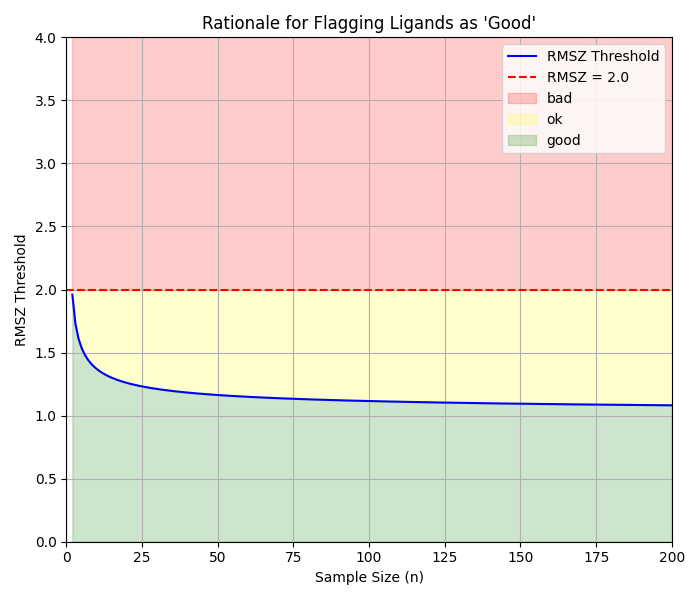
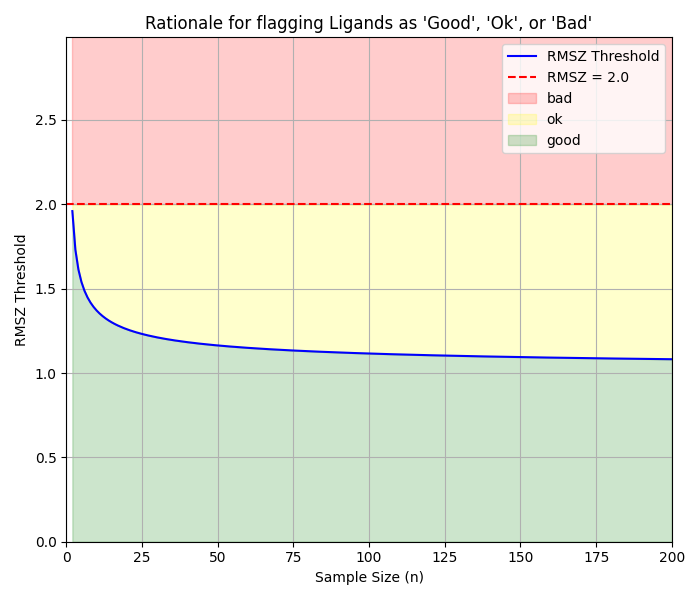
:memo: updated plots for documentation

diff --git a/ligand_inspector/RMSZInterpreter.py b/ligand_inspector/RMSZInterpreter.py
@@ -178,9 +178,9 @@ class RMSZInterpreter:
 
         # fill above
 
-        plt.ylim(0, 4)
+        plt.ylim(0, 2.99)
         plt.xlim(0, 200)
-        plt.title("Rationale for Flagging Ligands as 'Good'")
+        plt.title("Rationale for flagging Ligands as 'Good', 'Ok', or 'Bad'")
         plt.xlabel("Sample Size (n)")
         plt.ylabel("RMSZ Threshold")
         plt.legend()
@@ -203,6 +203,7 @@ class RMSZInterpreter:
         """
 
         fig, axs = plt.subplots(2, 1 , figsize=(7, 6))
+        fig.suptitle("Comparison of two Normal Distributions with RMSZ 1.0 and 2.0")
         mean = 0
         reference_std_dev = 1.0
         dataset_std_dev = 2.0

diff --git a/README.md b/README.md
@@ -107,8 +107,8 @@ Using a bisectional search, the treshold-RMSZ value is determined, below which n
 The size of the true population was chosen to be 1E7, which is large enough to be considered infinite compared to the number of bonds/angles typically found in a ligand which we assume to be in the range of 5-200.
 
 <p align="middle">
-    <img src="/docs/rmsz_categorization.png" width="400">
-    <img src="/docs/rmsz_ok_threshold.png" width="400">
+    <img src="/docs/rmsz_categorization.png" width="500">
+    <img src="/docs/rmsz_ok_threshold.png" width="500">
 </p>
 
 # :alembic: Example
